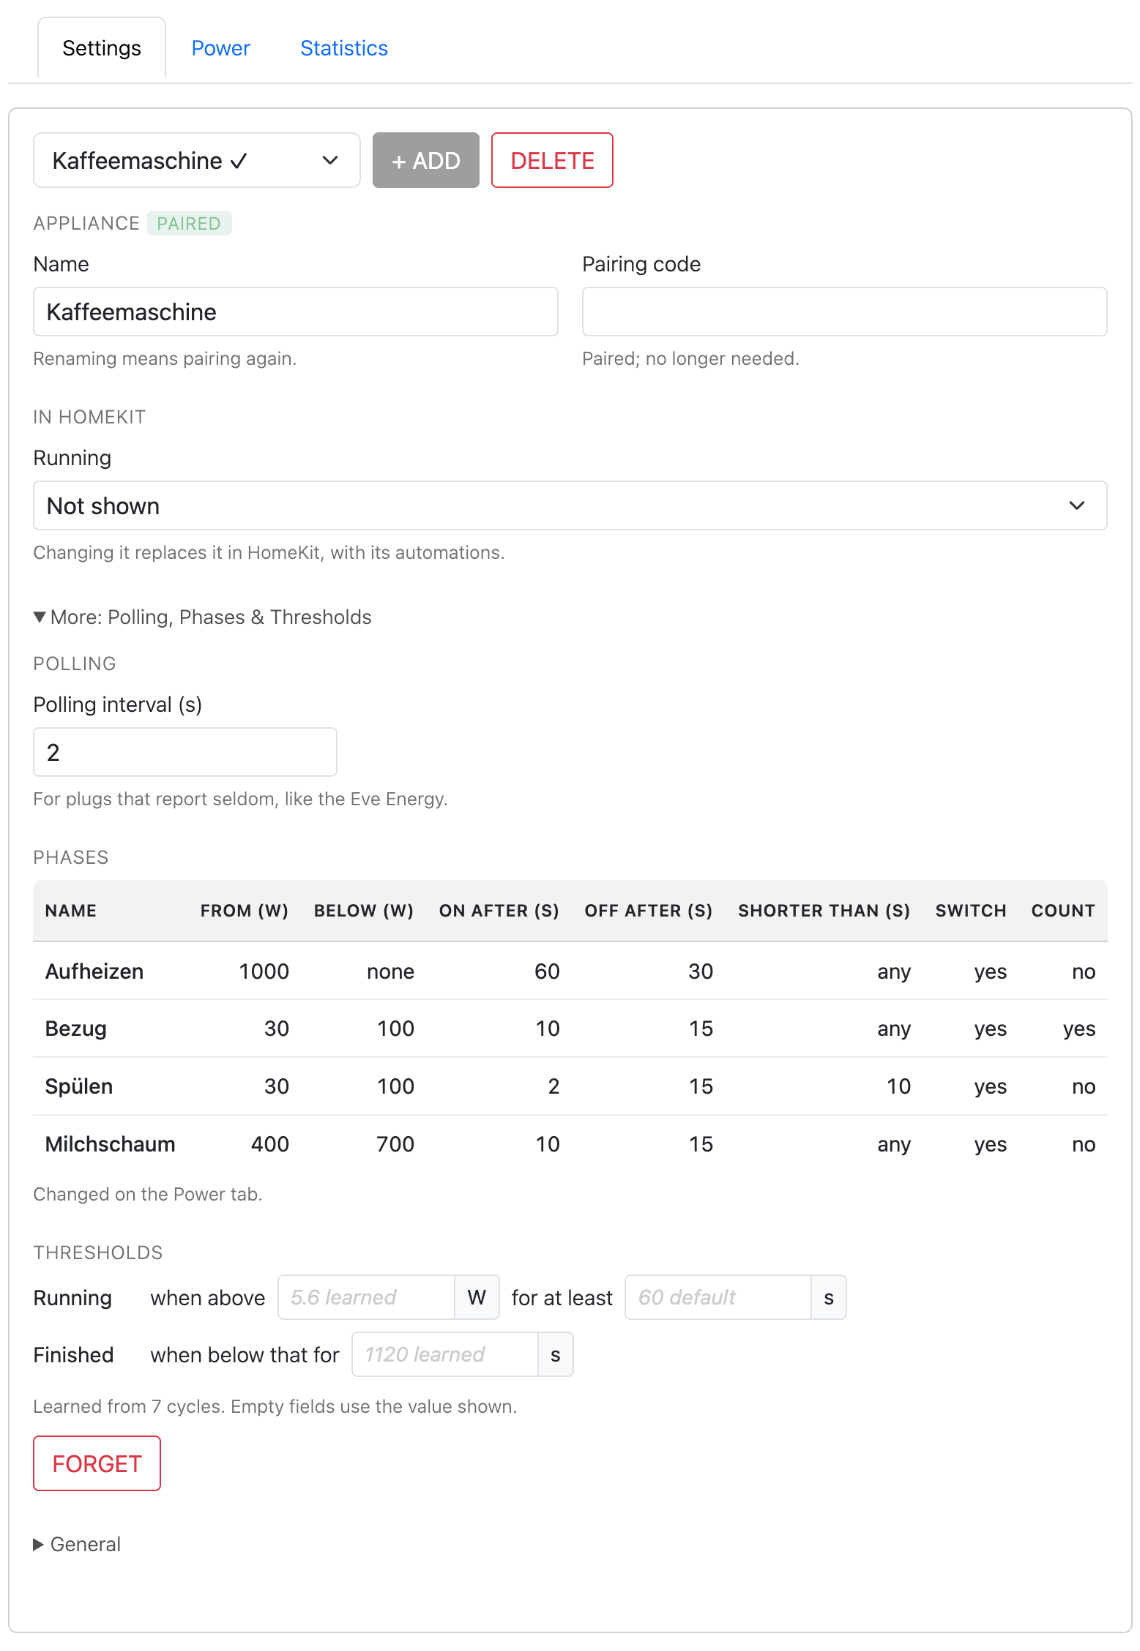
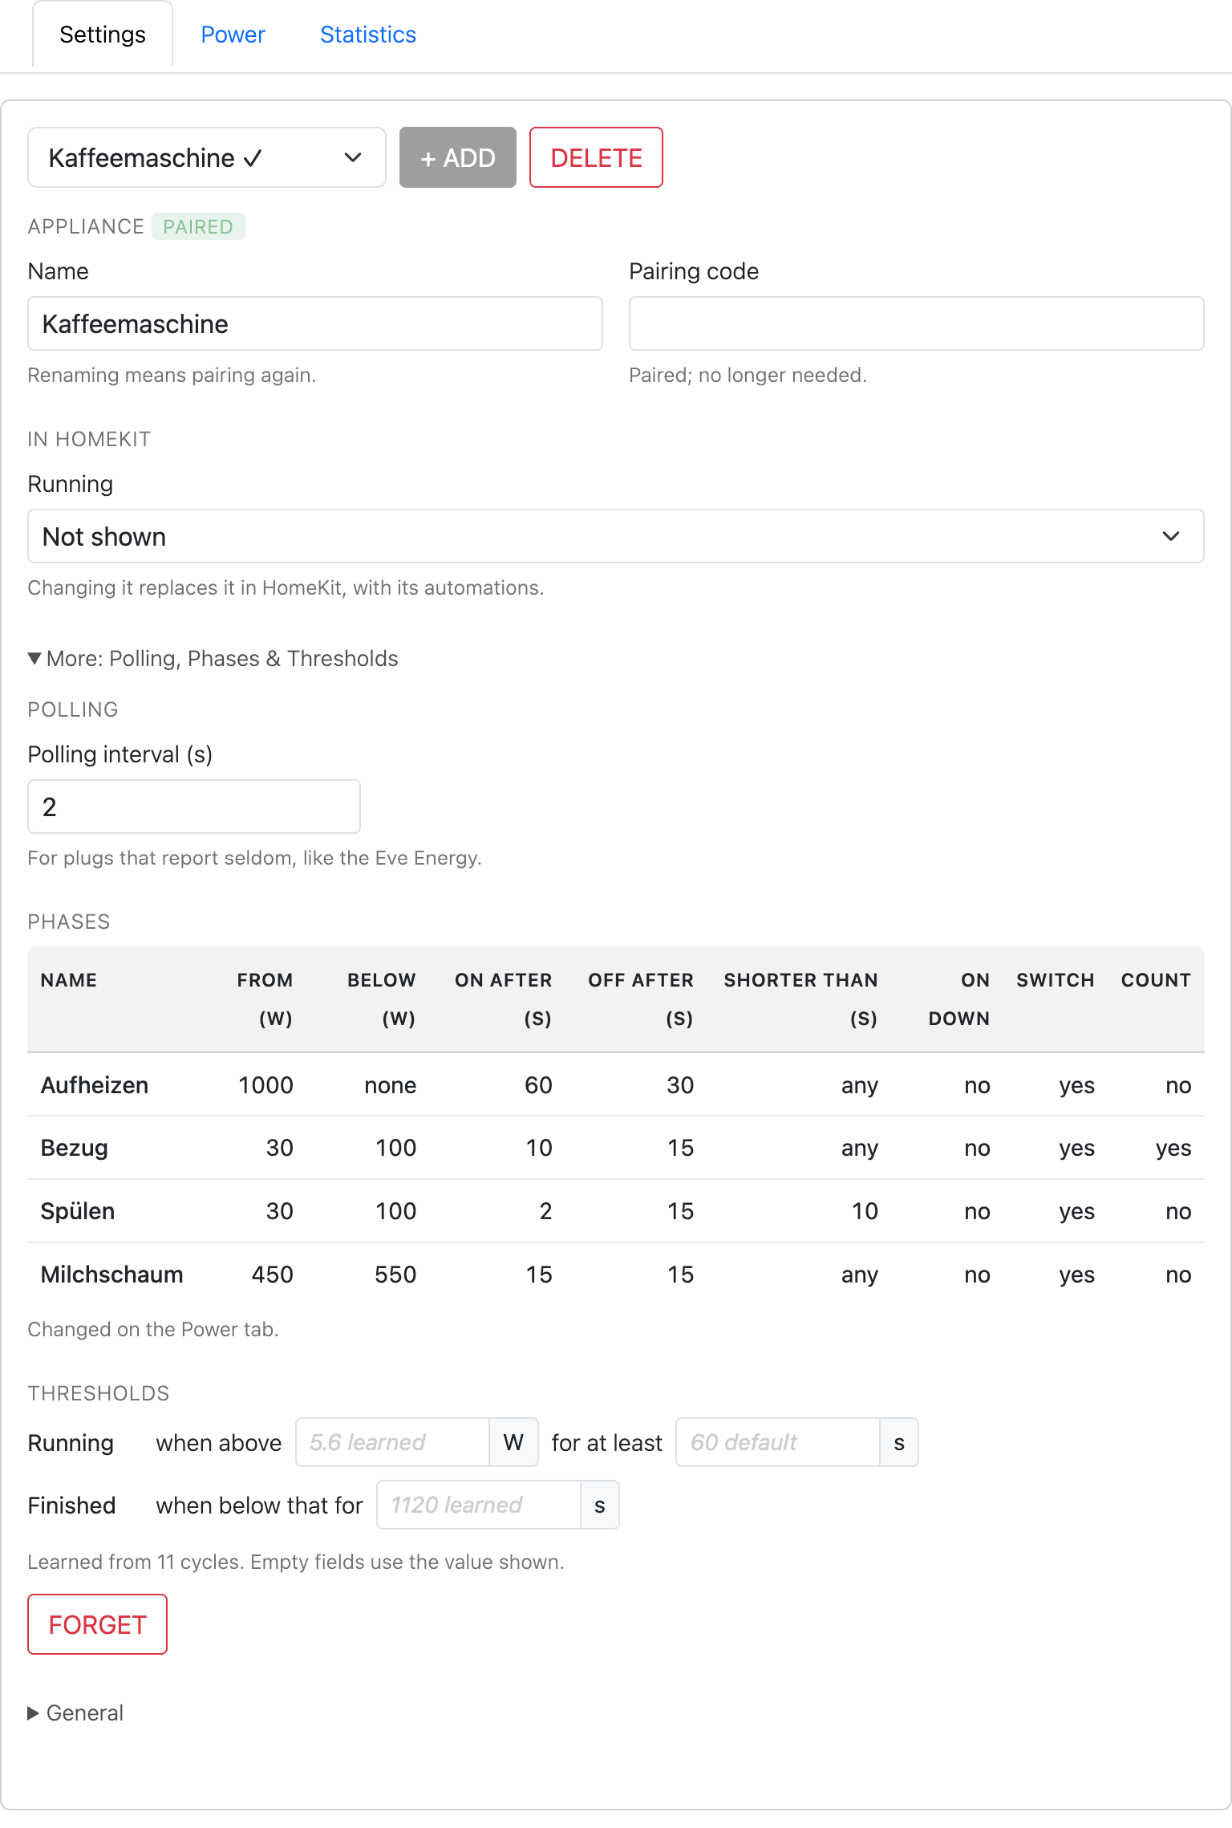
1.1.3: phase names and numbers fit their fields again, new screenshots

diff --git a/homebridge-ui/public/settings.js b/homebridge-ui/public/settings.js
@@ -46,9 +46,9 @@
      Homebridge UI, and a few pixels, so that the gaps between them look the
      same. Narrow padding, so that "Milchschaum" fits in the 768 pixels the
      Homebridge UI gives the page. */
-  .om-set-phase { display: grid; grid-template-columns: minmax(6rem, 1.5fr) repeat(5, minmax(0, 1fr)) 5.25rem 4.4rem 4.1rem 1.4rem;
+  .om-set-phase { display: grid; grid-template-columns: minmax(7.125rem, 1.5fr) repeat(5, minmax(0, 1fr)) 5.25rem 4.4rem 4.1rem 1.4rem;
                   gap: .4rem; align-items: center; padding: .3rem 0; }
-  .om-set-phase .form-control { padding-left: .5rem; padding-right: .5rem; }
+  .om-set-phase .form-control { padding-left: .4rem; padding-right: .4rem; }
   .om-set-phase.om-set-head { font-size: .78rem; opacity: .7; padding-bottom: 0; align-items: end; }
   .om-set-phase .form-check { margin: 0; white-space: nowrap; }
   /* Small and square, the cross in the middle of it. A

diff --git a/CHANGELOG.md b/CHANGELOG.md
@@ -6,6 +6,17 @@ adheres to [semantic versioning](https://semver.org/spec/v2.0.0.html).
 
 ## [Unreleased]
 
+## [1.1.3] — 2026-10-07
+
+### Fixed
+
+- A phase called "Milchschaum" fits its name field on the Power tab again,
+  and "1000" its number field; both had been cut off since 1.1.1.
+
+### Changed
+
+- New screenshots in the README, with **On down**.
+
 ## [1.1.2] — 2026-10-07
 
 ### Changed
@@ -479,7 +490,8 @@ The first published version.
 - A short log: one line per plug on start, what a plug offers once when it is
   paired, then only what changes.
 
-[Unreleased]: https://github.com/rummeyer/homebridge-appliance-monitor/compare/v1.1.2...HEAD
+[Unreleased]: https://github.com/rummeyer/homebridge-appliance-monitor/compare/v1.1.3...HEAD
+[1.1.3]: https://github.com/rummeyer/homebridge-appliance-monitor/compare/v1.1.2...v1.1.3
 [1.1.2]: https://github.com/rummeyer/homebridge-appliance-monitor/compare/v1.1.1...v1.1.2
 [1.1.1]: https://github.com/rummeyer/homebridge-appliance-monitor/compare/v1.1.0...v1.1.1
 [1.1.0]: https://github.com/rummeyer/homebridge-appliance-monitor/compare/v1.0.3...v1.1.0

diff --git a/README.md b/README.md
@@ -238,7 +238,7 @@ learn from; see [Learning](#learning).)
 
 <picture>
   <source media="(prefers-color-scheme: dark)" srcset="https://raw.githubusercontent.com/rummeyer/homebridge-appliance-monitor/main/docs/screenshots/power-dark.png">
-  <img src="https://raw.githubusercontent.com/rummeyer/homebridge-appliance-monitor/main/docs/screenshots/power-light.png" alt="The Power tab: a coffee machine's power over an hour, with its phases Aufheizen, Bezug, Spülen and Milchschaum, and a bar for each showing when it was on" width="760">
+  <img src="https://raw.githubusercontent.com/rummeyer/homebridge-appliance-monitor/main/docs/screenshots/power-light.png" alt="The Power tab: a coffee machine's power over six hours, with its phases Aufheizen, Bezug, Spülen and Milchschaum, and a bar for each showing when it was on" width="760">
 </picture>
 
 Name the phase, adjust the range if you like, and save; the chart shows a
